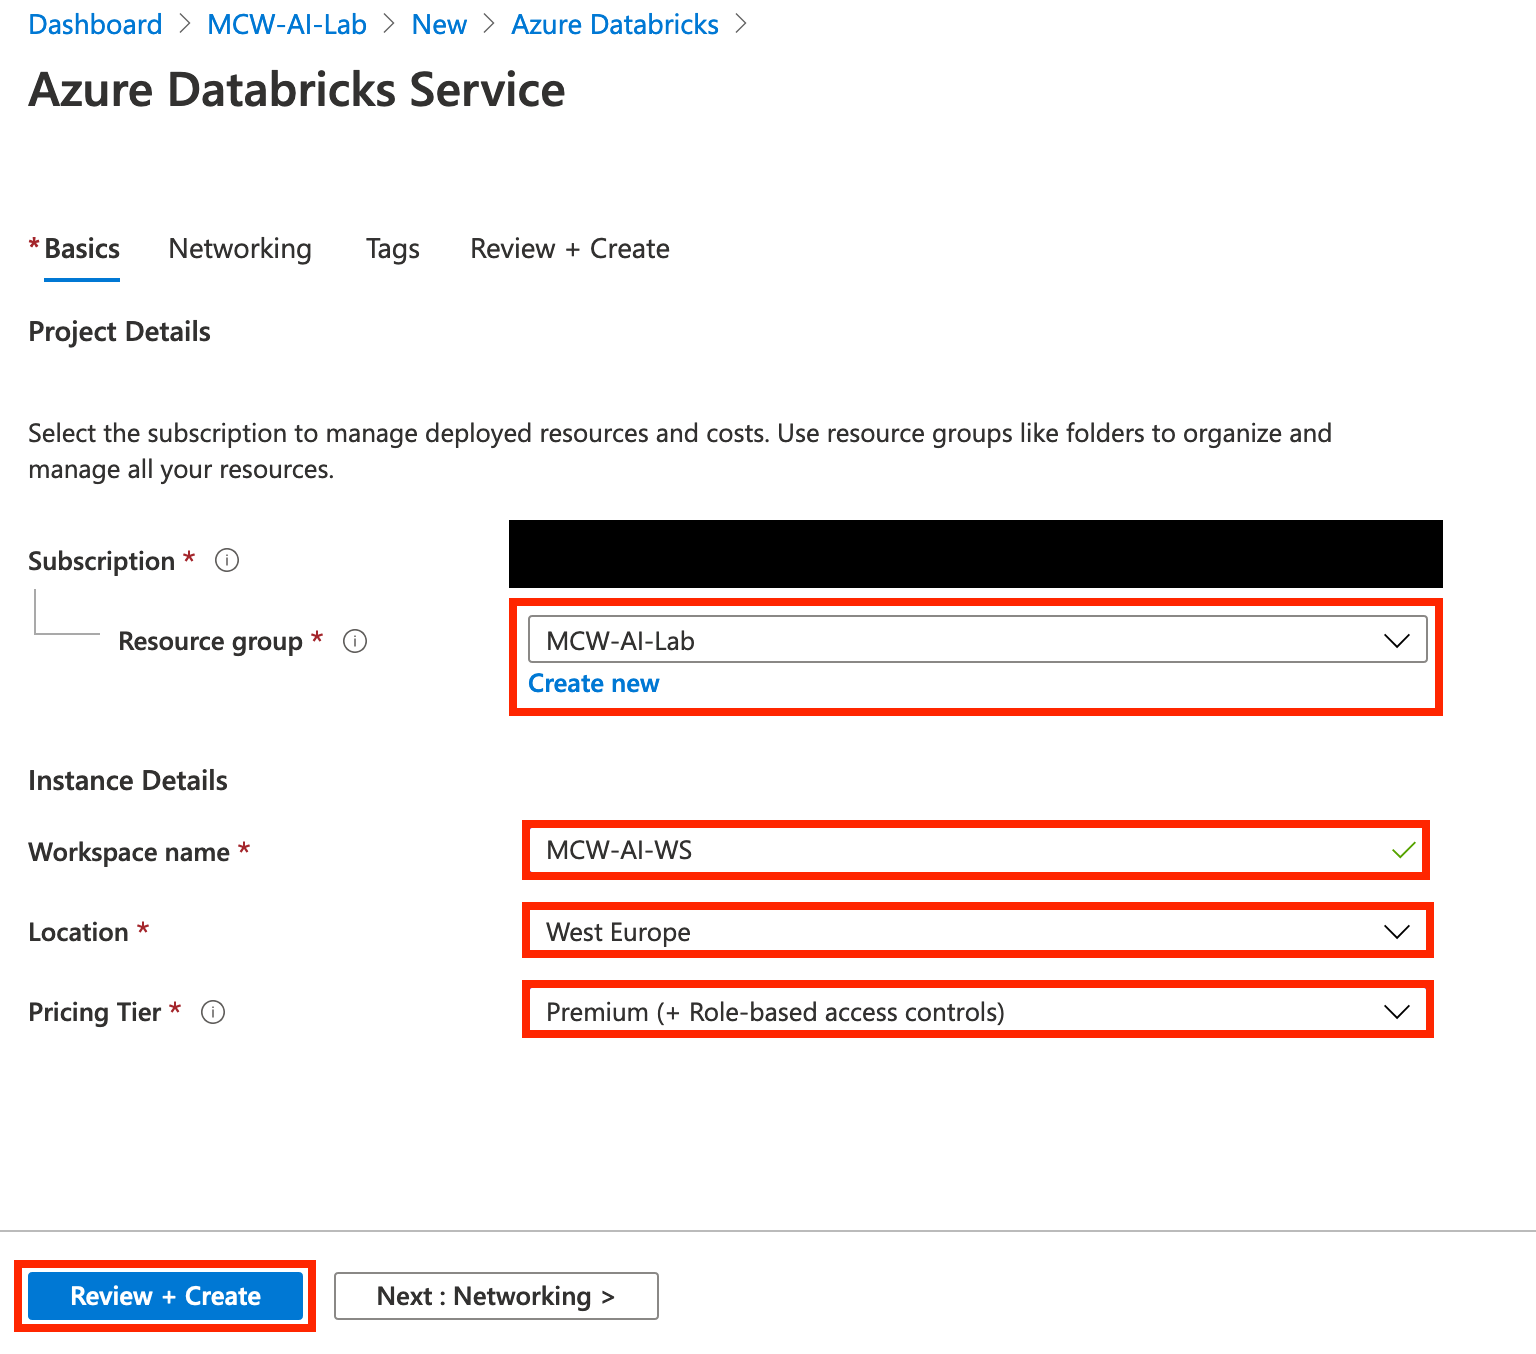
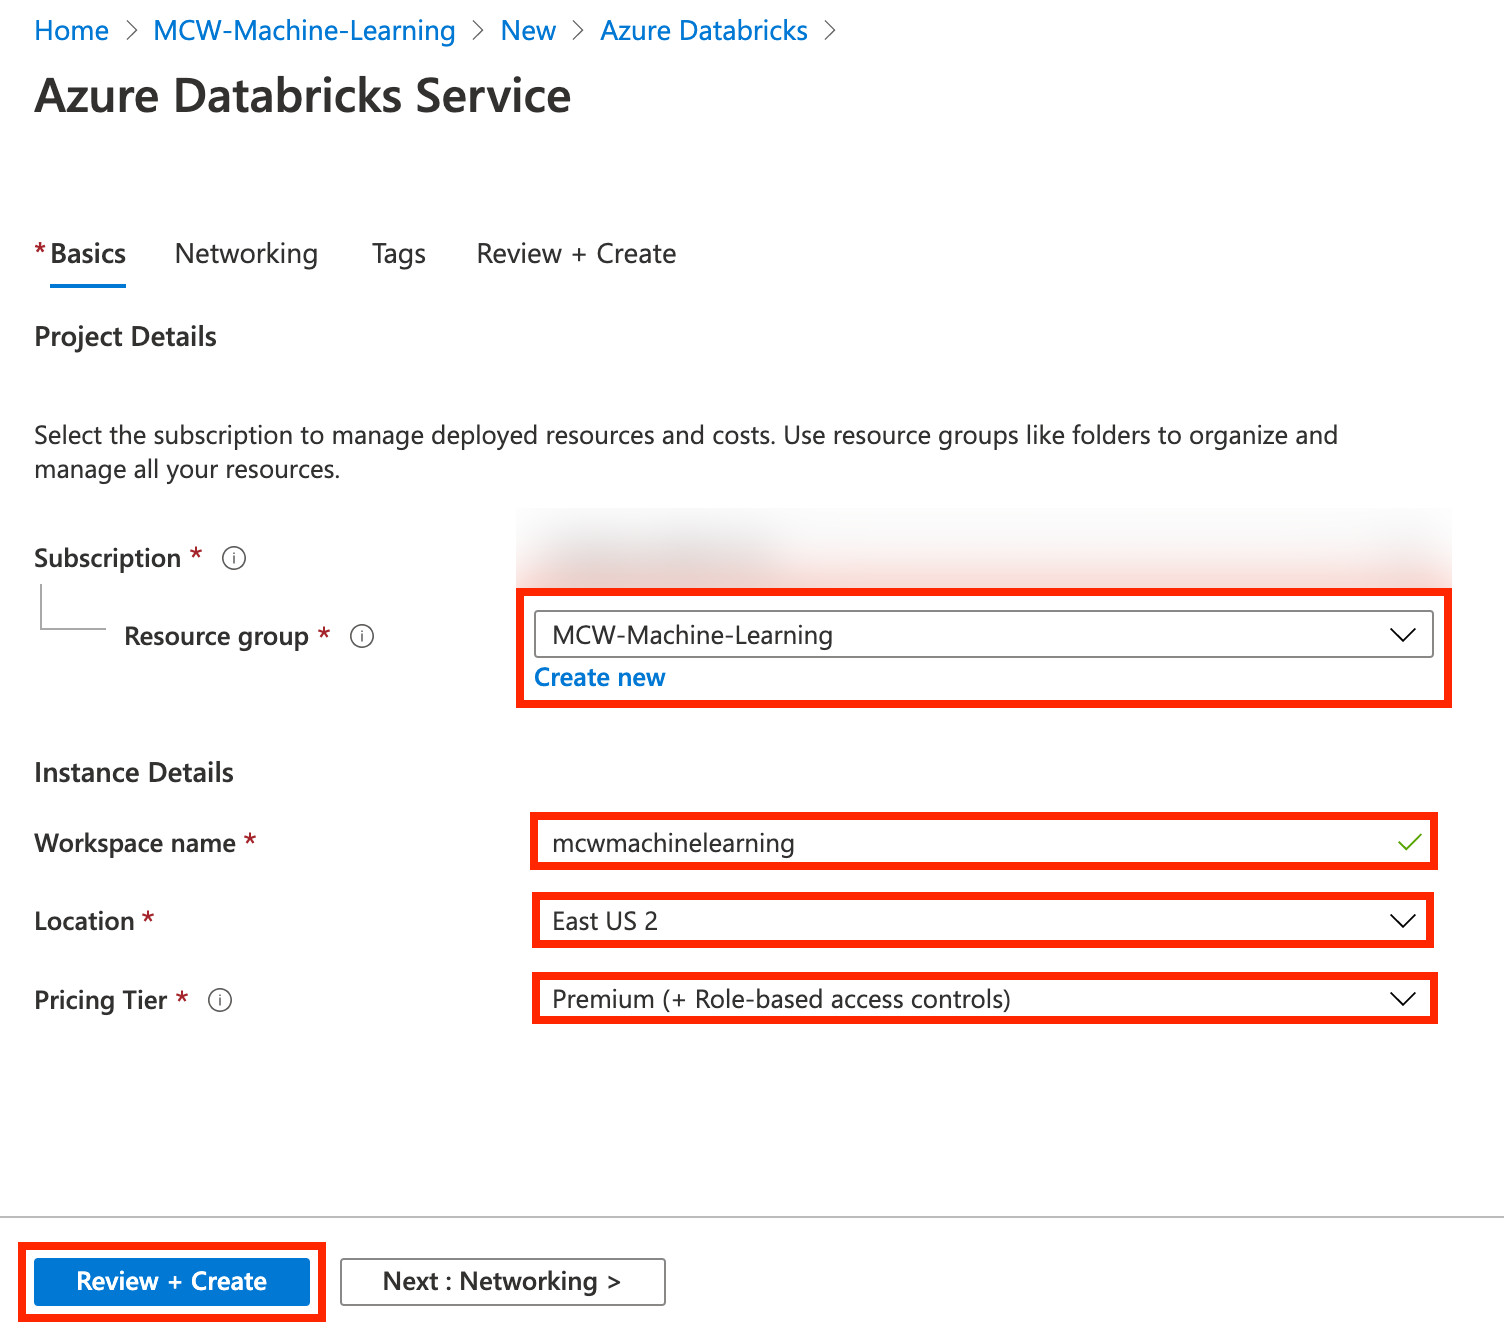
Updated screenshots to reflect the new resource names

diff --git a/Hands-on lab/Before the HOL - Machine Learning.md b/Hands-on lab/Before the HOL - Machine Learning.md
@@ -69,7 +69,7 @@ Azure Databricks is an Apache Spark-based analytics platform optimized for Azure
 
     - **Subscription**: Select the subscription you are using for this hands-on lab.
 
-    - **Resource Group**: Select **Create new** and provide the name `MCW-AI-Lab`.
+    - **Resource Group**: Select **Create new** and provide the name `MCW-Machine-Learning`.
 
     - **Location**: Select a region close to you. ***(If you are using an Azure Pass, select South Central US.)***
 
@@ -83,7 +83,7 @@ Azure Databricks is an Apache Spark-based analytics platform optimized for Azure
 
 You have provisioned an Azure Databricks workspace, and now you need to create a new cluster within the workspace.
 
-1. From within Azure portal navigate to your resource group name (e.g., `MCW-AI-Lab`).
+1. From within Azure portal navigate to your resource group name (e.g., `MCW-Machine-Learning`).
 
 2. Next, select your Azure Databricks service from the list.
 
@@ -107,7 +107,7 @@ You have provisioned an Azure Databricks workspace, and now you need to create a
 
     - **Cluster Mode**: **Standard**
 
-    - **Databricks Runtime Version**: **Runtime: 6.5 (Scala 2.11, Spark 2.4.5)**
+    - **Databricks Runtime Version**: **Runtime: 7.0 (Scala 2.12, Spark 3.0.0)**
 
     - **Enable autoscaling**: **Uncheck** this option.
 
@@ -175,7 +175,7 @@ The notebooks you will run depends on certain Python libraries that will need to
 
 3. In the Create Machine Learning Workspace dialog that appears, provide the following values:
 
-    - **Workspace Name**: `AML-workspace`
+    - **Workspace Name**: `mcwmachinelearning`
 
     - **Subscription**: Choose your Azure subscription.
 

diff --git a/Hands-on lab/HOL step-by step - Machine Learning.md b/Hands-on lab/HOL step-by step - Machine Learning.md
@@ -220,9 +220,9 @@ In this exercise, you will create a model that predicts battery failure from tim
 
 2. Provide the `Name`, `Description` and `Compute type`, and then select **Deploy**:
 
-    - **Name**: **battery-cycles**
+    - **Name**: `battery-cycles`
 
-    - **Description**: **The best AutoML model to predict battery cycles.**
+    - **Description**: `The best AutoML model to predict battery cycles.`
 
     - **Compute type**: Select `ACI`.
 
@@ -292,7 +292,7 @@ To avoid unexpected charges, it is recommended that you clean up all of your lab
 
 ### Task 1: Clean up lab resources
 
-1. Navigate to the Azure Portal and locate the `MCW-AI-Lab` Resource Group you created for this lab.
+1. Navigate to the Azure Portal and locate the `MCW-Machine-Learning` Resource Group you created for this lab.
 
 2. Select **Delete resource group** from the command bar.
 
